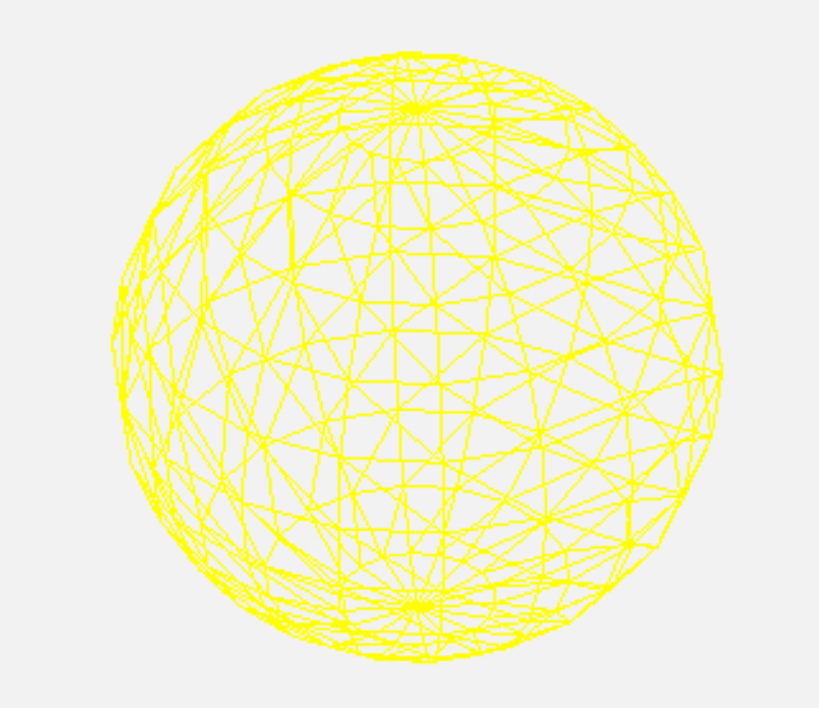
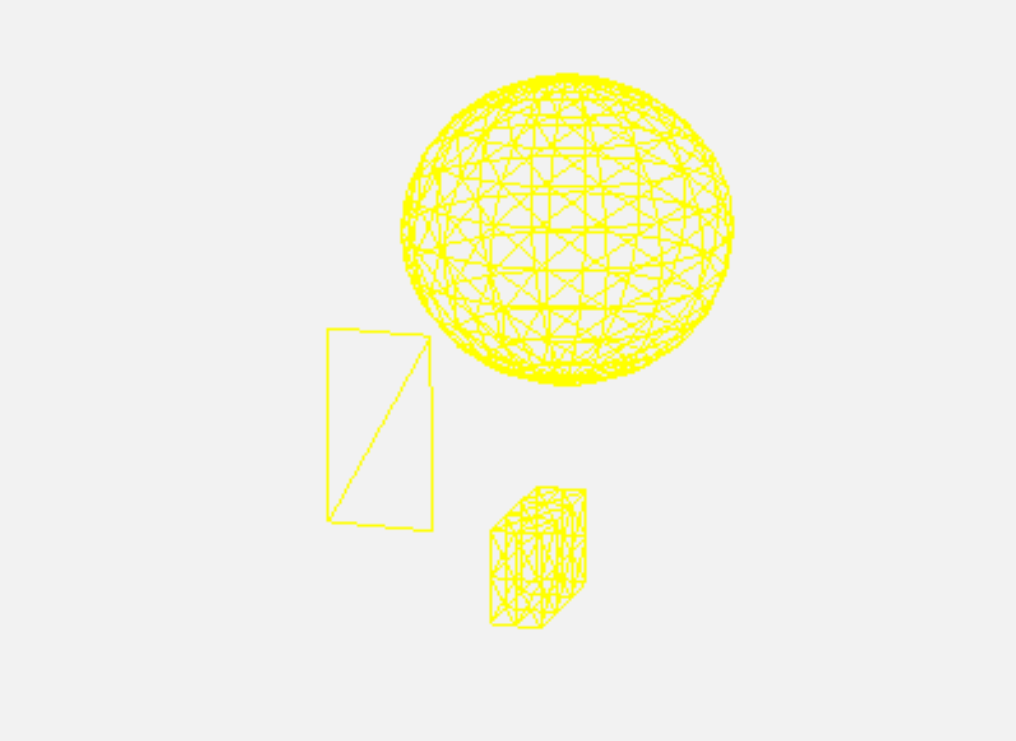
修改

Changed region(s): [[0.1221, 0.0621, 0.8852, 0.9633]]

diff --git a/src/pages/first/index.vue b/src/pages/first/index.vue
@@ -10,7 +10,9 @@ export default {
       scene: null, // 场景
       camera: null, // 相机
       renderer: null, // 渲染器
-      cube: null // 立方体
+			cube: null, // 立方体
+			plane: null, // 平面
+			sphere: null // 球体
     };
   },
   methods: {
@@ -33,56 +35,60 @@ export default {
     //   this.camera.position.z = 5;
     // },
     init() {
+			this.scene = new THREE.Scene();
+
       this.renderer = new THREE.WebGLRenderer({
         canvas: document.getElementById("mainCanvas")
       });
-      this.renderer.setClearColor(0x000000);
       this.renderer.setClearColor("#f2f2f2", 1.0);
 
-      this.scene = new THREE.Scene();
-
-      // camera
-      this.camera = new THREE.OrthographicCamera(-5, 5, 3.75, -3.75, 0.1, 100);
-      this.camera.position.set(25, 25, 25);
+			// this.camera = new THREE.OrthographicCamera(-5, 5, 3.75, -3.75, 0.1, 100); // 正交相机
+			this.camera = new THREE.PerspectiveCamera(10, window.innerWidth / window.innerHeight, 0.1, 1000) // 透视投影相机
+      this.camera.position.set(25, 25, 80);
       this.camera.lookAt(new THREE.Vector3(0, 0, 0));
       this.scene.add(this.camera);
 
-      // 材质
       let material = new THREE.MeshBasicMaterial({
         color: 0xffff00,
-        wireframe: true
+        wireframe: true // 线框图
       });
 
-      // this.drawCube(this.scene, material); //立方体
-      // this.drawPlane(this.scene, material); //平面
+      this.drawCube(this.scene, material); //立方体
+      this.drawPlane(this.scene, material); //平面
       this.drawSphere(this.scene, material); //球体
-
-      // render
+			
       this.renderer.render(this.scene, this.camera);
-    },
+		},
+		
     drawCube(scene, material) {
-      let cube = new THREE.Mesh(
-        new THREE.CubeGeometry(1, 2, 3, 2, 2, 3),
+      this.cube = new THREE.Mesh(
+        new THREE.CubeGeometry(1, 2, 3),
         material
 			);
-      this.scene.add(cube);
+			this.cube.position.x = ( Math.random() - 0.5 ) * 10;
+			this.cube.position.y = ( Math.random() - 0.5 ) * 10;
+			this.cube.position.z = ( Math.random() - 0.5 ) * 10; 
+      this.scene.add(this.cube);
     },
 
     drawPlane(scene, material) {
-			let plane = new THREE.Mesh(new THREE.PlaneGeometry(2, 4), material);
-      this.scene.add(plane);
+			this.plane = new THREE.Mesh(new THREE.PlaneGeometry(2, 4), material);
+			this.plane.position.x = ( Math.random() - 0.5 ) * 10;
+			this.plane.position.y = ( Math.random() - 0.5 ) * 10;
+			this.plane.position.z = ( Math.random() - 0.5 ) * 10; 
+      this.scene.add(this.plane);
     },
 
     drawSphere(scene, material) {
-      let sphere = new THREE.Mesh(
-        new THREE.SphereGeometry(3, 18, 12),
-        material
-			);
+      this.sphere = new THREE.Mesh(new THREE.SphereGeometry(3, 18, 12),material);
 
-      //          var sphere = new THREE.Mesh(new THREE.SphereGeometry(3, 8, 6, Math.PI / 6, Math.PI / 3), material);
-      //          var sphere = new THREE.Mesh(new THREE.SphereGeometry(3, 8, 6, 0, Math.PI * 2, Math.PI / 6, Math.PI / 3), material);
-      //            var sphere = new THREE.Mesh(new THREE.SphereGeometry(3, 8, 6, Math.PI / 2, Math.PI, Math.PI / 6, Math.PI / 2), material);
-      this.scene.add(sphere);
+      // this.sphere = new THREE.Mesh(new THREE.SphereGeometry(3, 8, 6, Math.PI / 6, Math.PI / 3), material);
+      // this.sphere = new THREE.Mesh(new THREE.SphereGeometry(3, 8, 6, 0, Math.PI * 2, Math.PI / 6, Math.PI / 3), material);
+			// this.sphere = new THREE.Mesh(new THREE.SphereGeometry(3, 8, 6, Math.PI / 2, Math.PI, Math.PI / 6, Math.PI / 2), material);
+			this.sphere.position.x = ( Math.random() - 0.5 ) * 10;
+			this.sphere.position.y = ( Math.random() - 0.5 ) * 10;
+			this.sphere.position.z = ( Math.random() - 0.5 ) * 10; 
+      this.scene.add(this.sphere);
     },
     render() {
       requestAnimationFrame(this.render);

diff --git a/src/pages/index.vue b/src/pages/index.vue
@@ -2,8 +2,8 @@
 	<div class="container">
 		<div class="info">
 			<img src="static/img/logo.png" alt="Three.js Examples" class="logo">
-			<a href="https://github.com/zihuahuahua/three.js-learning" target="_blank" class="title">Three.js Example</a>
-      <p>紫花花花©荣誉出品</p>
+			<a href="https://github.com/zihuahuahua/three.js-learning" target="_blank" class="title">Three.js == Demo</a>
+      <p>紫花花花©荣誉出品🙈</p>
 		</div>
 		<div class="works">
 			<div v-for="(item, index) in workList" :key="index">
@@ -22,7 +22,7 @@ export default {
       workList: [
         { link: "/first", img: "static/img/first.png" },
         { link: "/clock", img: "static/img/threejs-clock.png" },
-        { link: "/test", img: "" },
+        { link: "/test", img: "static/img/test.png" },
         { link: "/jump", img: "static/img/threejs-example-jump.png" },
         { link: "/mall", img: "static/img/threejs-example-mall.png" },
         { link: "/mini-city", img: "static/img/threejs-example-mini-city.png" }
@@ -34,7 +34,8 @@ export default {
 <!-- Add "scoped" attribute to limit CSS to this component only -->
 <style lang="scss" scoped>
 .container {
-  width: 100%; // height: 100%;
+  width: 100%; 
+  // height: 100%;
   background: #ffffff;
   padding: 0;
   margin: 0;
